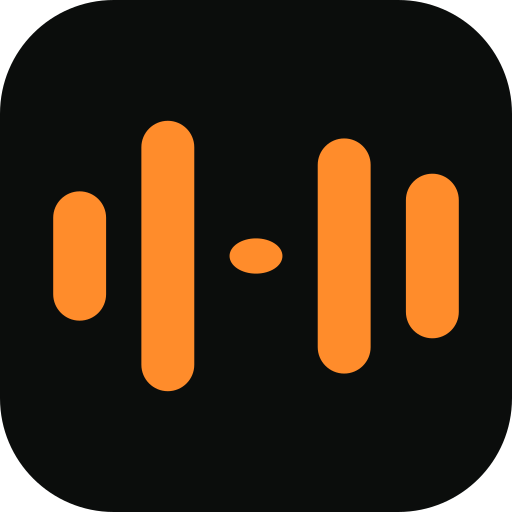
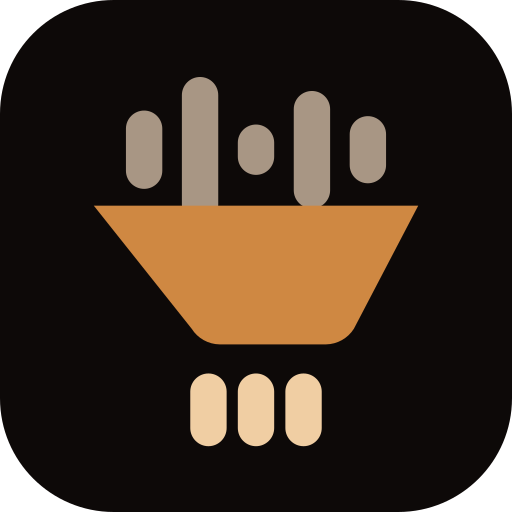
Rebrand around coffee, which is what the name was always promising
The mark is a coarse waveform going into a filter basket and an even one
coming out the bottom. The distinction between the two is regularity, not
brightness — an earlier draft made the "before" bars dark to say dirty,
and at 48px they simply vanished into the background, leaving a bucket
with sticks over it. Uneven versus even survives the size; light versus
dark does not.

Drawn to sit inside the adaptive icon's safe zone, so the launcher's
circular mask cannot crop the inflow or the outflow and leave only a
funnel. Regenerated at every density, along with the round and maskable
variants and the eleven splash screens, which were still Capacitor's
defaults.

The palette moves from anodized-rack near-black and a VU-meter orange to
dark roast and crema. Hues only: the lightness ramp is untouched, so
contrast is where it was. Ink is cream rather than white, because pure
white on brown reads cold. Token names stay — `ember` is still a fair
name for a warm accent, and renaming them would have been a large diff
that changed nothing on screen.

The tagline is "Coarse language, filtered out." Coarse is doing two jobs:
it is the ordinary word for what is being removed, and it is what you
call a grind that has not been through a filter yet. The name only pays
off if the coffee reading is available, and that phrase makes it
available without explaining the joke.

Play listing drafted in docs/, with the character counts against each
[…]

diff --git a/src/index.css b/src/index.css
@@ -14,33 +14,34 @@
  */
 
 @theme {
-  /* Panel — near-black with a green cast, like anodized rack metal. */
-  --color-panel-950: #0b0d0c;
-  --color-panel-900: #111413;
-  --color-panel-850: #171b19;
-  --color-panel-800: #1e2321;
-  --color-panel-700: #2a302d;
-  --color-panel-600: #3a423e;
+  /* Panel — dark roast. Warm near-black, going to roasted bean at the light end. */
+  --color-panel-950: #0d0908;
+  --color-panel-900: #15100d;
+  --color-panel-850: #1d1713;
+  --color-panel-800: #261e18;
+  --color-panel-700: #362a21;
+  --color-panel-600: #4a3a2d;
 
-  /* Ember — VU-meter backlight. The one loud colour, used sparingly. */
-  --color-ember-300: #ffc98a;
-  --color-ember-400: #ffab52;
-  --color-ember-500: #ff8c2b;
-  --color-ember-600: #e56f13;
+  /* Crema — the one warm colour, used sparingly. Token still named ember. */
+  --color-ember-300: #f0cea3;
+  --color-ember-400: #dfaa70;
+  --color-ember-500: #cf8842;
+  --color-ember-600: #ab6728;
 
-  /* Sage — "clean", "ready", "filtered". */
-  --color-sage-300: #a8d5b5;
-  --color-sage-400: #7cbd90;
-  --color-sage-500: #55a06d;
+  /* Sage — "clean", "ready", "filtered". Warmed toward olive to sit on brown. */
+  --color-sage-300: #bfd6ae;
+  --color-sage-400: #96ba82;
+  --color-sage-500: #729a61;
 
   /* Signal red, for failures only. */
-  --color-alarm-400: #ff6b5a;
-  --color-alarm-500: #e14b38;
+  --color-alarm-400: #ef6d59;
+  --color-alarm-500: #d24b36;
 
-  --color-ink-100: #f4f2ee;
-  --color-ink-300: #c6c3bc;
-  --color-ink-500: #8e8b84;
-  --color-ink-600: #6b6862;
+  /* Ink — cream, not white. Pure white on brown reads cold. */
+  --color-ink-100: #f7f1e8;
+  --color-ink-300: #d2c7b8;
+  --color-ink-500: #998d7e;
+  --color-ink-600: #73675b;
 
   --font-display: 'Bricolage Grotesque Variable', ui-sans-serif, sans-serif;
   --font-sans: 'Familjen Grotesk Variable', ui-sans-serif, sans-serif;
@@ -125,7 +126,7 @@
     letter-spacing: -0.03em;
   }
 
-  /* The etched label above a control, like silkscreen on a front panel. */
+  /* The small stencilled label above a control, like type on a coffee bag. */
   .silkscreen {
     font-family: var(--font-mono);
     font-size: 10px;
@@ -154,8 +155,8 @@
 
   .glow-ember {
     box-shadow:
-      0 0 0 1px rgb(255 140 43 / 0.35),
-      0 6px 26px -6px rgb(255 140 43 / 0.45);
+      0 0 0 1px rgb(207 136 66 / 0.35),
+      0 6px 26px -6px rgb(207 136 66 / 0.45);
   }
 
   .focus-ring:focus-visible {

diff --git a/vite.config.ts b/vite.config.ts
@@ -81,9 +81,9 @@ export default defineConfig({
       manifest: {
         name: 'FilterPod',
         short_name: 'FilterPod',
-        description: 'A podcast player that automatically filters foul language.',
-        theme_color: '#0b0d12',
-        background_color: '#0b0d12',
+        description: 'Coarse language, filtered out. Podcasts brewed clean, on your device.',
+        theme_color: '#0d0908',
+        background_color: '#0d0908',
         display: 'standalone',
         orientation: 'portrait',
         start_url: '/',

diff --git a/index.html b/index.html
@@ -8,7 +8,7 @@
       name="viewport"
       content="width=device-width, initial-scale=1.0, viewport-fit=cover, user-scalable=no"
     />
-    <meta name="theme-color" content="#0b0d0c" />
+    <meta name="theme-color" content="#0d0908" />
     <meta name="description" content="A podcast player that automatically filters foul language." />
     <title>FilterPod</title>
   </head>

diff --git a/docs/play-store-listing.md b/docs/play-store-listing.md
@@ -1,0 +1,124 @@
+# Google Play listing
+
+Draft copy for the store entry. Character limits are Play's and are counted here so the
+fields can be pasted in without trimming at the console.
+
+## The line the whole thing hangs on
+
+> **Coarse language, filtered out.**
+
+"Coarse" is doing two jobs. It is the ordinary word for the language being removed, and it
+is what you call a grind that has not been through the filter yet. The name only pays off
+if the coffee reading is available, and this is the phrase that makes it available without
+explaining the joke.
+
+## App name
+
+Play allows 30 characters.
+
+| | Chars |
+|---|---|
+| `FilterPod` | 9 |
+| `FilterPod: Clean Podcasts` | 25 |
+| `FilterPod — Podcast Filter` | 26 |
+
+Plain `FilterPod` unless the listing needs the keywords to be found at all; the bare name
+looks more like a product and less like SEO.
+
+## Short description
+
+Play allows 80 characters. This is what appears under the icon in search results, and it
+is the only copy most people will read.
+
+| | Chars |
+|---|---|
+| `Coarse language, filtered out. Podcasts brewed clean, on your device.` | 68 |
+| `Podcasts with the coarse language filtered out — all on your device.` | 67 |
+| `Skips the swearing in your podcasts. Nothing ever leaves your phone.` | 67 |
+
+The first leans on the pun and the privacy claim together. The third is the plainest and
+would test better with people who have never heard of the app — worth considering if the
+listing is not converting.
+
+## Full description
+
+Play allows 4000 characters. This draft is ~1500.
+
+---
+
+**Coarse language, filtered out.**
+
+FilterPod is a full podcast player that skips swearing before you hear it. Subscribe to any
+show by RSS, stream or download episodes, and listen without the language.
+
+**How it works**
+
+Press play. FilterPod transcribes a few seconds ahead of you, finds anything on your filter
+list, and seeks past it — a fraction of a second before the word, so you never catch the
+start of it. Transcription keeps running ahead while you listen, then rests once it is
+comfortably in front.
+
+If it ever falls behind, playback pauses and tells you rather than letting audio through
+unchecked. Audio nobody has looked at is treated as unknown, not as clean. That rule is the
+whole design.
+
+**Everything happens on your phone**
+
+There is no server. No account, no sign-up. No audio, transcript, or listening history
+leaves your device, because there is nowhere for it to go. Speech recognition runs locally
+using Whisper. Once the speech model is downloaded, filtering works with no connection at
+all.
+
+**Choose how much to cut**
+
+Four levels, from cutting only the harshest language to also cutting mild words and casual
+blasphemy. Add your own words, or exempt words you would rather keep. Set a different level
+per show, so a comedy podcast and something you listen to with children can be treated
+differently.
+
+**A real podcast player**
+
+- Subscribe to any podcast by RSS
+- Stream instantly, or download for offline
+- Resume where you left off, on the original timeline
+- A queue you can arrange, playing on to the next episode
+- Playback speed, skip forward and back
+- Lock-screen and Bluetooth controls, and playback that keeps filtering with the screen off
+
+**Open source**
+
+FilterPod is licensed under the GNU AGPL v3. An app that decides what you are allowed to
+hear should be one you can read the source of.
+
+github.com/mhamann/filterpod
+
+---
+
+## Notes on claims
+
+Two things in the copy above are load-bearing and should not be softened into something
+untrue:
+
+**"Nothing leaves your device"** is literally true — there is no backend at all. Keep it as
+a statement of architecture, not a privacy-policy-shaped promise, because it is stronger
+than a promise: there is nowhere for the data to go.
+
+**"Before you hear it"** holds because cuts are decided ahead of the playhead rather than
+on reaching the word. It is not a guarantee of perfection, and the listing should never
+claim one. Speech recognition mishears things, and the wordlist will miss words. If the
+copy ever implies that nothing will ever get through, a single slip makes the whole listing
+look dishonest. "Skips swearing" is a description of what it does; "never miss a word" would
+be a lie.
+
+## Assets still needed
+
+- **Feature graphic**, 1024×500. Required, and shown at the top of the listing.
+- **Phone screenshots**, at least 2, 16:9 or 9:16, min 320px. Now Playing mid-cut, the
+  filter levels in Settings, and the queue would show the most.
+- **App icon**, 512×512 — `public/icon-512.png` is already this size and correct.
+
+## Content rating
+
+The questionnaire will ask about profanity. The honest answer is that the app's purpose is
+removing it and it never displays any: the wordlist is not shown in the UI, and the filter
+levels are described by strength and category rather than by example, deliberately.

diff --git a/README.md b/README.md
@@ -1,7 +1,13 @@
 # FilterPod
 
-A podcast player that automatically skips foul language. Everything runs on your device —
+**Coarse language, filtered out.**
+
+A podcast player that skips swearing before you hear it. Everything runs on your device —
 there is no server, and no audio, transcript or listening history ever leaves the phone.
+
+The name is the whole idea: coarse goes in, the filter does its work, and what pours out
+is clean. "Coarse" is also what you call a grind that has not been through a filter yet,
+which is the joke and the product description at the same time.
 
 ## Why
 
